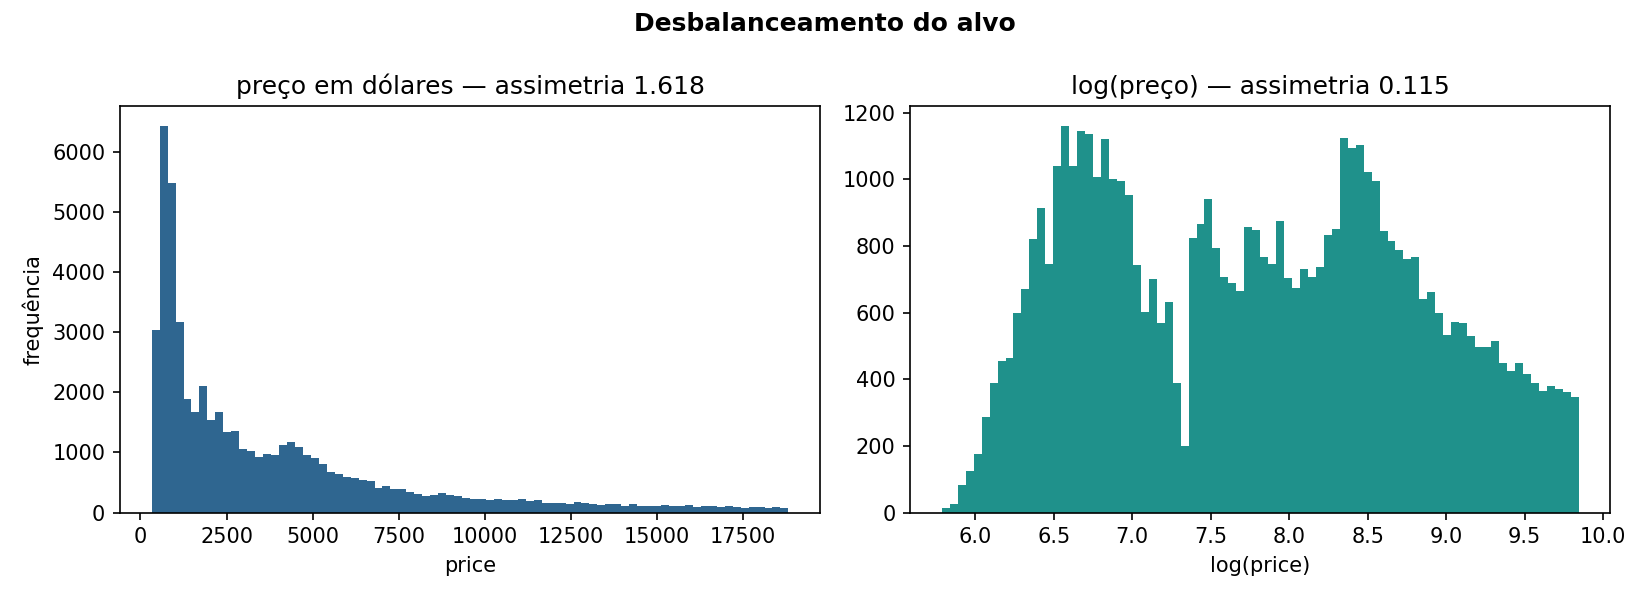
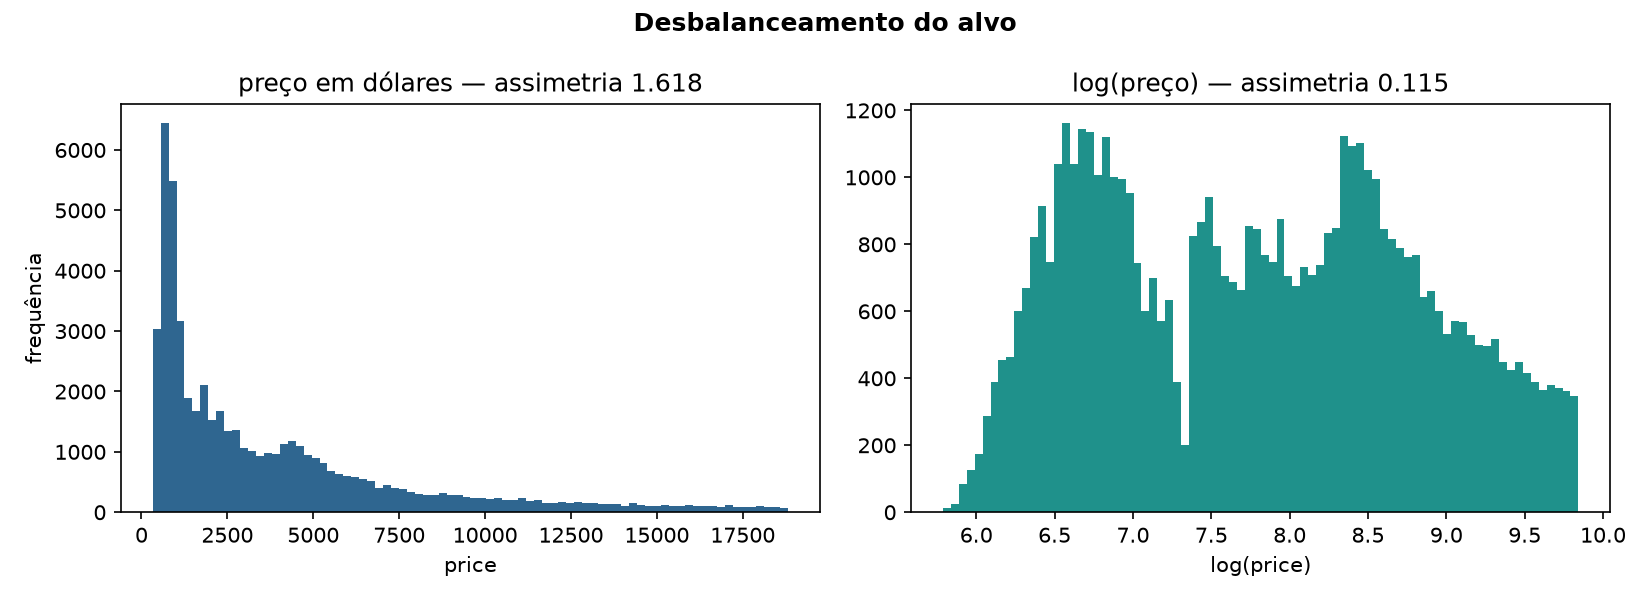
feat: pearson na mao na matriz de correlacao em estudo base / add: colocando as formulas dos modelos que faltava em TODO

diff --git a/01_estudo_base.py b/01_estudo_base.py
@@ -25,6 +25,8 @@ import matplotlib
 
 matplotlib.use("Agg")  # sem janela: salva direto em arquivo
 import matplotlib.pyplot as plt
+from matplotlib.colors import LinearSegmentedColormap
+import matplotlib.patches as patches
 import numpy as np
 import pandas as pd
 
@@ -53,7 +55,7 @@ def figura(nome: str) -> Path:
     FIGURAS.mkdir(parents=True, exist_ok=True)
     return FIGURAS / nome
 
-
+# Desbalanceamento
 def distribuicao_do_alvo(y: pd.Series) -> None:
     fig, eixos = plt.subplots(1, 2, figsize=(11, 4))
     eixos[0].hist(y, bins=80, color="#2F6690", edgecolor="none")
@@ -72,24 +74,61 @@ def distribuicao_do_alvo(y: pd.Series) -> None:
     plt.close(fig)
 
 
+# Analise de correlação
 def matriz_correlacao(df: pd.DataFrame) -> pd.DataFrame:
     colunas = D.NUMERICAS + [D.ALVO]
-    cor = df[colunas].corr()
+    dados = df[colunas].to_numpy(dtype=float)
+    n_cols = dados.shape[1]
 
+    matriz_cor = np.zeros((n_cols, n_cols))
+    
+    for i in range(n_cols):
+        for j in range(n_cols):
+            x = dados[:, i]
+            y = dados[:, j]
+            
+            # Diferença de cada valor para a média da sua coluna
+            diff_x = x - np.mean(x)
+            diff_y = y - np.mean(y)
+            
+            # Aplicação da fórmula
+            numerador = np.sum(diff_x * diff_y)
+            denominador = np.sqrt(np.sum(diff_x**2) * np.sum(diff_y**2))
+            
+            if denominador == 0:
+                matriz_cor[i, j] = 0.0
+            else:
+                matriz_cor[i, j] = numerador / denominador # r - pearson 
+
+    # Convertendo de volta para DataFrame para manter a compatibilidade com o gráfico
+    cor = pd.DataFrame(matriz_cor, index=colunas, columns=colunas)
+
+    meu_cmap = LinearSegmentedColormap.from_list("vermelho_verde", ["#d62728", "white", "#2ca02c"])
     fig, eixo = plt.subplots(figsize=(7.5, 6.5))
-    imagem = eixo.imshow(cor, cmap="RdBu_r", vmin=-1, vmax=1)
-    eixo.set_xticks(range(len(colunas)), colunas, rotation=45, ha="right")
-    eixo.set_yticks(range(len(colunas)), colunas)
+    
+    # Aplicando o novo mapa de cores
+    imagem = eixo.imshow(cor, cmap=meu_cmap, vmin=-1, vmax=1)
+    
+    # Invertendo o eixo Y para a diagonal ir do canto inferior esquerdo ao superior direito
+    eixo.invert_yaxis()
+    
+    eixo.set_xticks(range(len(colunas)))
+    eixo.set_xticklabels(colunas, rotation=45, ha="right")
+    eixo.set_yticks(range(len(colunas)))
+    eixo.set_yticklabels(colunas)
+    
     for i in range(len(colunas)):
         for j in range(len(colunas)):
             valor = cor.iloc[i, j]
-            eixo.text(j, i, f"{valor:.2f}", ha="center", va="center",
+            eixo.text(j, i, f"{valor:.3f}", ha="center", va="center",
                       fontsize=8, color="white" if abs(valor) > 0.55 else "black")
+            
     fig.colorbar(imagem, ax=eixo, shrink=0.8)
-    eixo.set_title("Correlação de Pearson", fontweight="bold")
+    eixo.set_title("Matriz de Correlação dos atributos - Diamonds", fontweight="bold")
     fig.tight_layout()
     fig.savefig(figura("02_correlacao.png"), dpi=150)
     plt.close(fig)
+    
     return cor
 
 
@@ -106,7 +145,7 @@ def contagem_categoricas(df: pd.DataFrame) -> None:
     fig.savefig(figura("03_categoricas.png"), dpi=150)
     plt.close(fig)
 
-
+# Clusterização com T-SNE
 def tsne(df: pd.DataFrame, tamanho: int, semente: int) -> None:
     try:
         from sklearn.manifold import TSNE
@@ -151,7 +190,7 @@ def tsne(df: pd.DataFrame, tamanho: int, semente: int) -> None:
 
 def main() -> None:
     p = argparse.ArgumentParser(description=__doc__, formatter_class=argparse.RawDescriptionHelpFormatter)
-    p.add_argument("--amostra-tsne", type=int, default=5000, help="pontos usados no t-SNE")
+    p.add_argument("--amostra-tsne", type=int, default=25000, help="pontos usados no t-SNE")
     p.add_argument("--semente", type=int, default=42)
     args = p.parse_args()
 

diff --git a/src/modelos.py b/src/modelos.py
@@ -20,7 +20,7 @@ def _com_intercepto(X: np.ndarray) -> np.ndarray:
     X = np.asarray(X, dtype=float)
     if X.ndim != 2:
         raise ValueError(f"X deve ser 2-D, recebi shape {X.shape}")
-    return np.column_stack([np.ones(len(X)), X])
+    return np.column_stack([np.ones(len(X)), X])   #formula Slide aula 4 
 
 
 def _conferir(A: np.ndarray, y: np.ndarray) -> np.ndarray:
@@ -51,7 +51,11 @@ class RegressaoLinearFechada:
         # TODO: resolver (AᵀA) w = Aᵀy e guardar o resultado em self.w_
         # Dica: np.linalg.solve(...) e mais estavel e mais rapido do que
         # inverter AᵀA explicitamente com np.linalg.inv.
-        raise NotImplementedError("implemente as equacoes normais")
+
+        # (A^T A) w = A^T y
+        self.w_ = np.linalg.solve(A.T @ A, A.T @ y)
+
+        #raise NotImplementedError("implemente as equacoes normais")
 
         return self
 
@@ -108,7 +112,12 @@ class RegressaoLinearGD:
         for epoca in range(self.epocas):
             # TODO: calcular o gradiente conforme a formula do docstring
             #       e atualizar w dando um passo de tamanho self.taxa
-            raise NotImplementedError("implemente o passo do Gradient Descent")
+            # 1. Calcula o vetor gradiente
+            gradiente = (2 / n) * A.T @ (A @ w - y)
+            
+            # 2. Atualiza os pesos (w) dando o passo negativo do gradiente
+            w = w - self.taxa * gradiente
+            #raise NotImplementedError("implemente o passo do Gradient Descent")
 
             self.historico_["custo"].append(self.custo(A, y, w))
             self.historico_["norma_gradiente"].append(float(np.linalg.norm(gradiente)))
